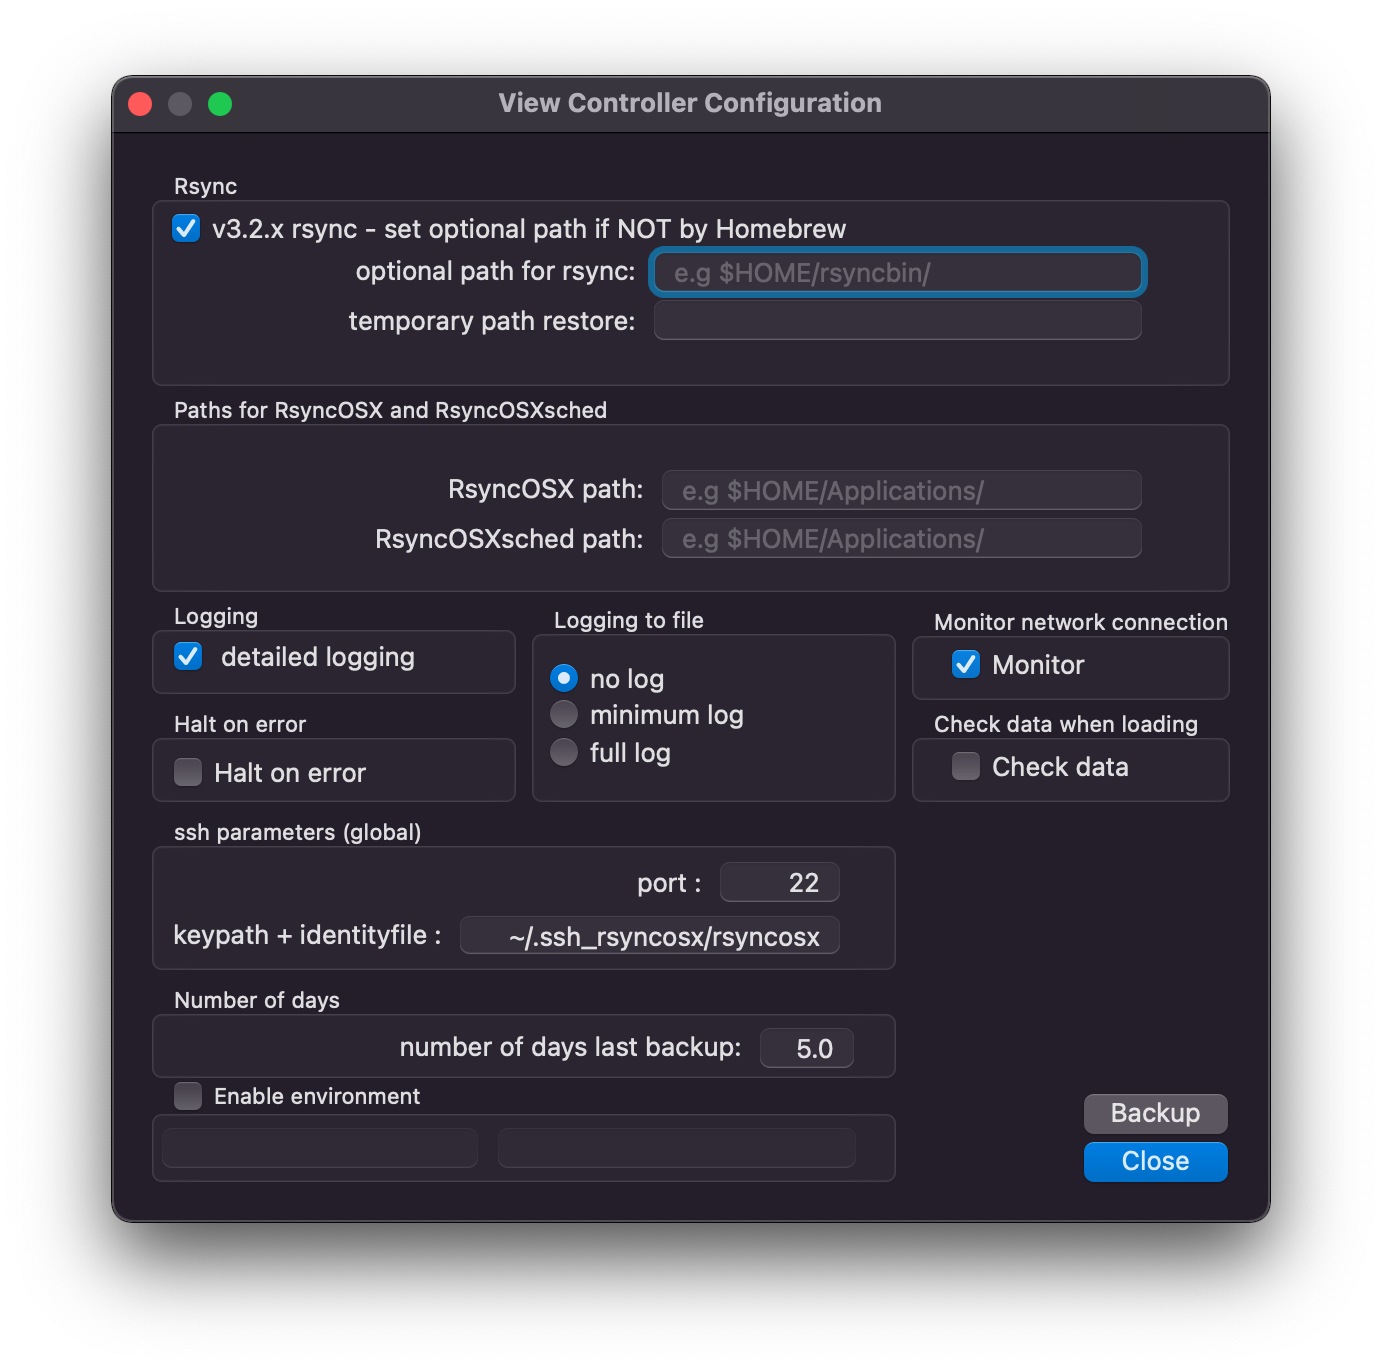
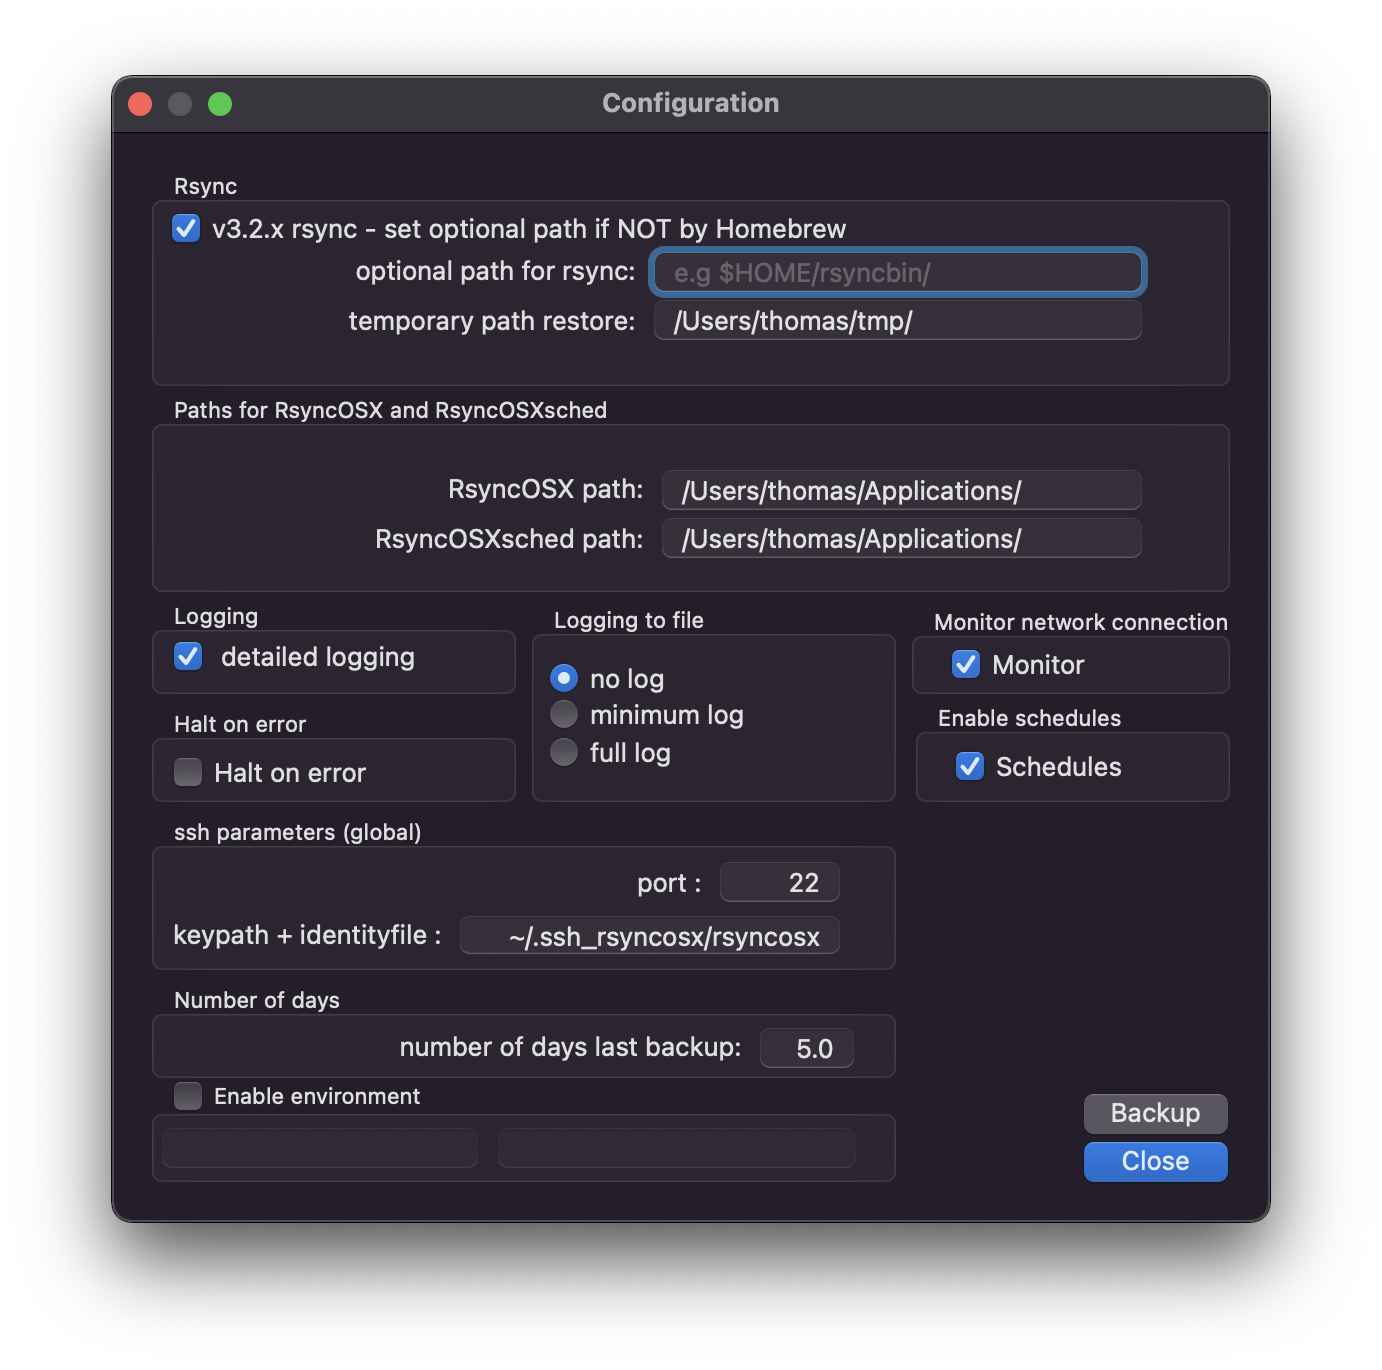
Update

diff --git a/content/post/ScheduleTasks.md b/content/post/ScheduleTasks.md
@@ -23,10 +23,11 @@ Select task (row), set the start date and time and select the schedule (once, da
 
 The stack is a reference only to a configuration (by a hidden key). The user can change anything regarding a configuration up to the moment the task is executed by schedule. If a configuration is deleted all scheduled tasks connected to configuration is deleted as well.
 
-The [menu app](/post/menuapp/) should be started from RsyncOSX.
+The [menu app](/post/menuapp/) should be started from RsyncOSX by either `⌘S` shortcut or form the File menu.
 
 The yellow flag in column Sched indicates there are active scheduled tasks. The flag is either yellow or green. Green is next task within one hour.
 
 Remember, only the menu app which executes scheduled tasks. Select the calendar icon to start the menu app and automaticall close RsyncOSX.
 
-{{< image src="/images/RsyncOSX/master/schedule/schedule.png" alt="" position="center" style="border-radius: 8px;" >}}
+{{< image src="/images/RsyncOSX/master/schedule/schedule1.png" alt="" position="center" style="border-radius: 8px;" >}}
+{{< image src="/images/RsyncOSX/master/schedule/schedule2.png" alt="" position="center" style="border-radius: 8px;" >}}

diff --git a/content/post/configfiles.md b/content/post/configfiles.md
@@ -7,7 +7,7 @@ categories = ["general information"]
 description = "Where does RsyncOSX stores the various configuration files."
 lastmod = "2020-10-23"
 +++
-RsyncOSX stores its configurations, schedules and log records as [JSON](https://en.wikipedia.org/wiki/JSON) files. The storage of those files is:
+RsyncOSX stores its configurations, schedules and log records and user configurations as [JSON](https://en.wikipedia.org/wiki/JSON) files. The storage of those files is:
 ```bash
 $HOME/.rsyncosx/macserialnumber
 ```
@@ -32,8 +32,8 @@ $HOME/.rsyncosx/macserialnumber/profile/schedules.json
 
 ## User configurations
 
-The [user configurations](/post/userconfiguration/) is stored as plist in:
+The [user configurations](/post/userconfiguration/) is stored as:
 ```bash
-$HOME/.rsyncosx/macserialnumber/config.plist
+$HOME/.rsyncosx/macserialnumber/rsyncosxconfig.json
 ```
 The user settings applies to all profiles.

diff --git a/content/post/UserConfiguration.md b/content/post/UserConfiguration.md
@@ -55,11 +55,11 @@ $HOME/.rsyncosx/macserial/rsynclog.txt
 
 RsyncOSX can monitor the network connection during execution of tasks. If a network connection is dropped during execution, RsyncOSX sends an interrupt signal to the task and it halts with an error.
 
-## Check data when loading
+## Enable schedules
 
-- Check data
+- Schedules
 
-By setting check data, RsyncOSX will check and if required clean logs. The check data flag is **not** persistent and have to be set each time.
+By enable, the scheduling part of RsyncOSX, is enabled and available as a button within the main view.
 
 ## Ssh parameters (global)
 
